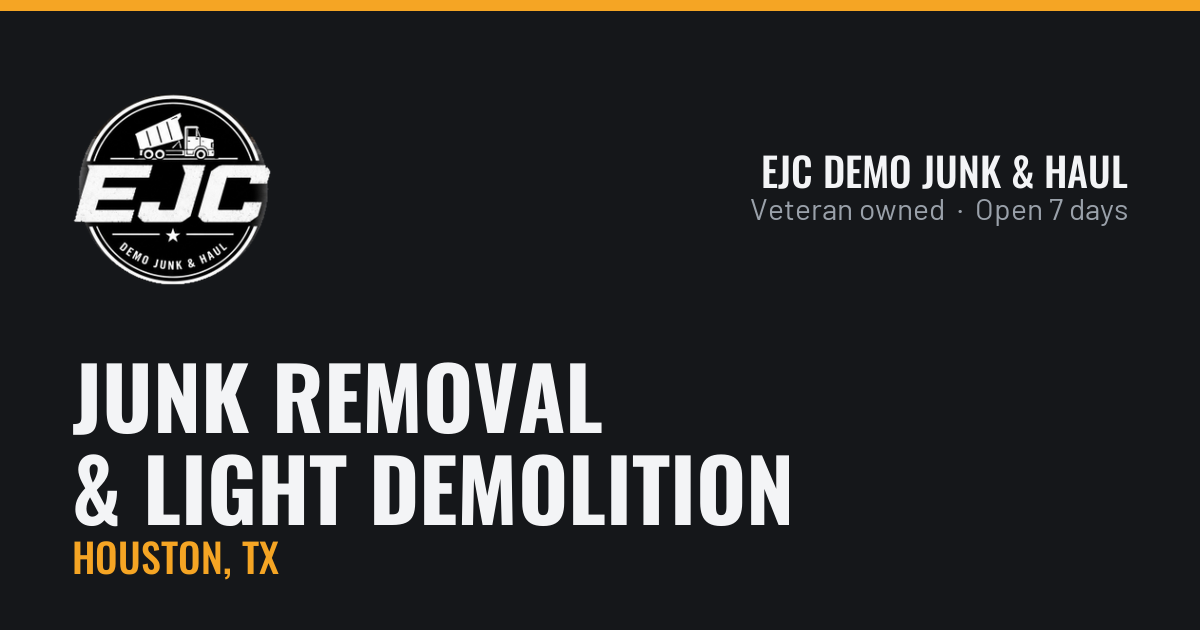
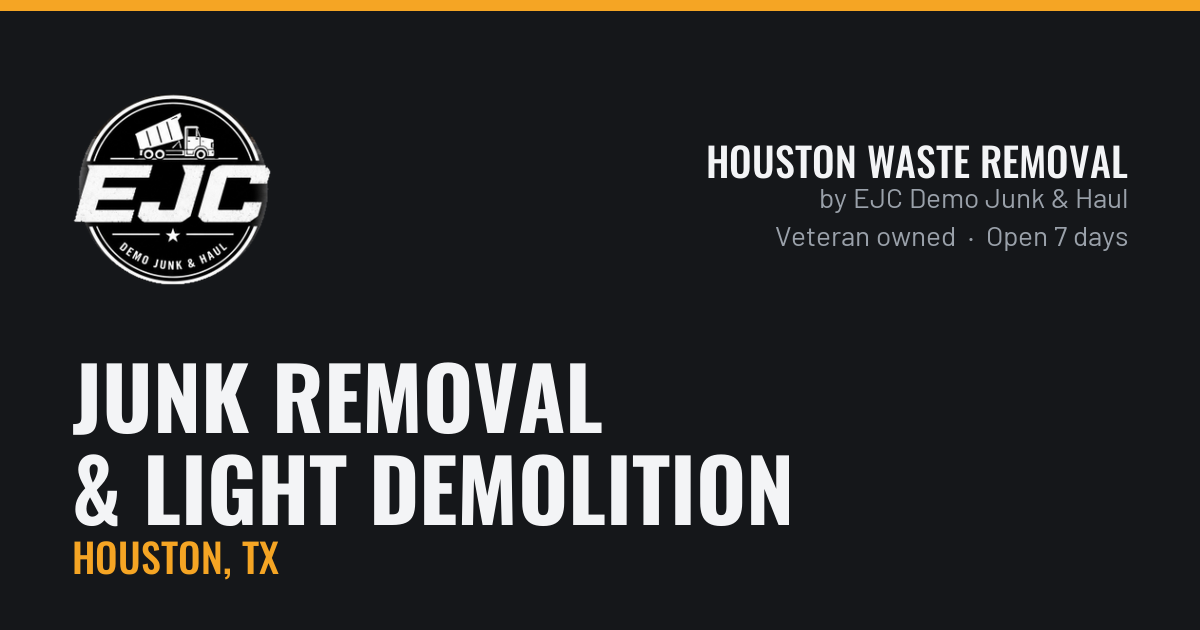
rebrand: Houston Waste Removal, operated by EJC Demo Junk & Haul
The customer-facing brand becomes Houston Waste Removal. EJC Demo Junk & Haul
stays visible as the company behind it, in six deliberate places and nowhere
else, because a half-finished rename reads to a visitor as two businesses.

  displayName    Houston Waste Removal
  alternateName  EJC Demo Junk & Haul   (new field, schema.org alternateName)
  legalName      Mustang Logistix LLC   (unchanged)

HEADER LOCKUP. The EJC badge exactly as supplied, untouched, then the wordmark,
then "by EJC Demo Junk & Haul" beneath it. THE WORDMARK NEVER TRUNCATES at any
width: no min-w-0, no truncate, whitespace-nowrap. What gives on a narrow
screen is the attribution line, hidden under 380px, because the badge already
says EJC and the same statement is in five other places.

TITLES. All now end "| Houston Waste Removal", a 24-character suffix, so heads
must be 26 to 36. Four were refitted, three of them to kill a "Houston ... |
Houston Waste Removal" stutter:

  /          Junk Removal, Cleanouts and Hauling       59
  /services  Junk Removal and Cleanout Services        58
  /about     About Us: Veteran Owned Junk Removal      60
  /contact   Free Estimate for Junk Removal            54

Every service title already fitted and was left alone. H1s and body copy are
untouched in their keywords: still junk removal, cleanouts, hauling and the
service names, never "waste removal".

THE STUTTER. A scan of rendered text for the brand and the bare city within 40
[…]

Changed region(s): [[0.5858, 0.2111, 0.9558, 0.3921]]

diff --git a/components/Header.tsx b/components/Header.tsx
@@ -4,7 +4,9 @@ import { getImage, hasImage } from '@/lib/images'
 import Phone from './Phone'
 
 const NAV = [
+  { href: '/', label: 'Home' },
   { href: '/services', label: 'Services' },
+  { href: '/areas', label: 'Service Areas' },
   { href: '/about', label: 'About' },
   { href: '/referral-program', label: 'Referrals' },
   { href: '/contact', label: 'Contact' },
@@ -13,15 +15,35 @@ const NAV = [
 export default function Header() {
   const logoName = config.images.logo
   // The supplied logo is a 225px screenshot, so it is NEVER rendered above its
-  // native size. 40px tall in the bar is roughly 1/5 of what the file can carry
-  // even at 2x, which is why it stays crisp. A vector file would lift this cap;
-  // see CLIENT-TODO item 15.
+  // native size. 40px tall in the bar is roughly a fifth of what the file can
+  // carry even at 2x, which is why it stays crisp. A vector file would lift
+  // this cap; see CLIENT-TODO item 15.
   const logo = logoName && hasImage(logoName) ? getImage(logoName) : null
 
   return (
-    <header className="sticky top-0 z-40 border-b-2 border-primary-dark bg-surface">
-      <div className="mx-auto flex max-w-page items-center justify-between gap-4 px-4 py-3 sm:px-6">
-        <Link href="/" className="flex shrink-0 items-center gap-3">
+    /*
+     * The scroll behaviour lives in app/globals.css and changes the BORDER and
+     * BACKGROUND only. Nothing here changes height, padding or font size on
+     * scroll, because any of those would reflow the page under the reader and
+     * put CLS above zero. See the `header-scrolled` rules in globals.css.
+     */
+    <header
+      data-site-header
+      className="sticky top-0 z-40 border-b-2 border-primary-dark bg-surface transition-[background-color,border-color] duration-150 motion-reduce:transition-none"
+    >
+      <div className="mx-auto flex max-w-page items-center justify-between gap-3 px-4 py-3 sm:gap-4 sm:px-6">
+        {/*
+          The lockup: the EJC badge exactly as supplied, the brand wordmark, and
+          the operating company underneath.
+
+          THE WORDMARK NEVER TRUNCATES, at any width. `min-w-0` and `truncate`
+          are deliberately absent from it. If something has to give on a narrow
+          screen it is the "by EJC Demo Junk & Haul" line, which is hidden under
+          380px, because the badge already says EJC and the attribution is
+          repeated in the footer, on the about page, in a homepage FAQ and in
+          the schema.
+        */}
+        <Link href="/" className="flex shrink-0 items-center gap-2.5 sm:gap-3">
           {logo && (
             <img
               src={logo.src}
@@ -30,21 +52,28 @@ export default function Header() {
               width={logo.width}
               height={logo.height}
               alt={logo.alt}
-              className="h-10 w-auto"
+              className="h-9 w-auto shrink-0 sm:h-10"
               decoding="async"
             />
           )}
-          <span className="font-heading text-lg font-bold uppercase leading-none tracking-tight text-primary-dark sm:text-xl">
-            {config.displayName}
+          <span className="flex flex-col leading-none">
+            <span className="whitespace-nowrap font-heading text-[15px] font-bold uppercase tracking-tight text-primary-dark min-[380px]:text-lg sm:text-xl">
+              {config.displayName}
+            </span>
+            {config.alternateName && (
+              <span className="mt-1 hidden whitespace-nowrap text-[10px] font-medium uppercase tracking-[0.08em] text-muted min-[380px]:block sm:text-[11px]">
+                by {config.alternateName}
+              </span>
+            )}
           </span>
         </Link>
 
-        <nav aria-label="Main" className="hidden items-center gap-7 md:flex">
+        <nav aria-label="Main" className="hidden items-center gap-6 lg:flex">
           {NAV.map((item) => (
             <Link
               key={item.href}
               href={item.href}
-              className="font-heading text-sm font-semibold uppercase tracking-wide text-ink hover:text-accent-dark"
+              className="whitespace-nowrap font-heading text-sm font-semibold uppercase tracking-wide text-ink transition-colors duration-100 hover:text-accent-dark motion-reduce:transition-none"
             >
               {item.label}
             </Link>
@@ -52,10 +81,10 @@ export default function Header() {
         </nav>
 
         <div className="flex shrink-0 items-center gap-3">
-          <Phone className="hidden font-heading text-base font-bold text-primary-dark lg:inline" />
+          <Phone className="hidden font-heading text-base font-bold text-primary-dark xl:inline" />
           <a
             href={`tel:${config.phone}`}
-            className="hidden bg-accent px-5 py-2.5 font-heading text-sm font-semibold uppercase tracking-wide text-on-accent hover:bg-accent-dark sm:inline-block"
+            className="hidden whitespace-nowrap bg-accent px-4 py-2.5 font-heading text-sm font-semibold uppercase tracking-wide text-on-accent transition-colors duration-100 hover:bg-accent-dark active:translate-y-px motion-reduce:transition-none sm:inline-block sm:px-5"
           >
             Call now
           </a>
@@ -64,13 +93,13 @@ export default function Header() {
 
       <nav
         aria-label="Main mobile"
-        className="flex justify-center gap-6 border-t border-line px-4 py-2.5 md:hidden"
+        className="flex justify-center gap-x-5 gap-y-1 overflow-x-auto border-t border-line px-4 py-2.5 lg:hidden [-ms-overflow-style:none] [scrollbar-width:none] [&::-webkit-scrollbar]:hidden"
       >
         {NAV.map((item) => (
           <Link
             key={item.href}
             href={item.href}
-            className="font-heading text-sm font-semibold uppercase tracking-wide text-ink hover:text-accent-dark"
+            className="shrink-0 whitespace-nowrap font-heading text-sm font-semibold uppercase tracking-wide text-ink transition-colors duration-100 hover:text-accent-dark motion-reduce:transition-none"
           >
             {item.label}
           </Link>

diff --git a/site.config.ts b/site.config.ts
@@ -2,7 +2,8 @@ import type { SiteConfigInput } from './lib/config-schema'
 import { LOGO, STOCK } from './lib/stock-images'
 
 /**
- * Every business fact for EJC Demo Junk & Haul lives here and nowhere else.
+ * Every business fact for Houston Waste Removal, operated by EJC Demo Junk &
+ * Haul, lives here and nowhere else.
  *
  * SOURCED ENTIRELY FROM seo/FACTS.md. If a claim is not in that file it is not
  * in this one: no license number, no insurance status, no years in business,
@@ -25,7 +26,15 @@ const siteConfig = {
   businessSlug: 'houston-waste-removal-1791303748120',
 
   legalName: 'Mustang Logistix LLC',
-  displayName: 'EJC Demo Junk & Haul',
+  /**
+   * The customer-facing brand. EJC Demo Junk & Haul is the operating company
+   * and stays visible: in the header lockup, in the footer, on the about page,
+   * in a homepage FAQ, in llms.txt, and as schema.org alternateName. A visitor
+   * who was recommended one name and lands on the other has to be able to tell
+   * they are the same business, in one glance.
+   */
+  displayName: 'Houston Waste Removal',
+  alternateName: 'EJC Demo Junk & Haul',
   tagline: 'Veteran owned junk removal, cleanouts, and light demolition serving Houston, Texas seven days a week.',
 
   // Service-area business, no storefront. LocalBusiness is the honest type:
@@ -64,7 +73,7 @@ const siteConfig = {
       faqs: [
         {
           q: 'How much does junk removal cost in Houston?',
-          a: 'There is no flat rate, because a few bags and a full garage are not the same job. EJC Demo Junk & Haul gives a free virtual estimate, so you have a price before you commit to anything.',
+          a: 'There is no flat rate, because a few bags and a full garage are not the same job. Houston Waste Removal gives a free virtual estimate, so you have a price before you commit to anything.',
         },
         {
           q: 'Can you come out the same day?',
@@ -148,7 +157,7 @@ const siteConfig = {
         },
         {
           q: 'Can you pick one up the same day I call?',
-          a: 'Same-day service is available, so call and ask what is open. EJC Demo Junk & Haul works seven days a week from 8:00am to 5:00pm, and after-hours calls are answered.',
+          a: 'Same-day service is available, so call and ask what is open. We work seven days a week from 8:00am to 5:00pm, and after-hours calls are answered.',
         },
       ],
     },
@@ -224,7 +233,7 @@ const siteConfig = {
         },
         {
           q: 'How do we keep this private?',
-          a: 'Say what discretion you need and when, and ask how the visit can be arranged around it. EJC Demo Junk & Haul works seven days a week from 8:00am to 5:00pm.',
+          a: 'Say what discretion you need and when, and ask how the visit can be arranged around it. We work seven days a week from 8:00am to 5:00pm.',
         },
         {
           q: 'What if we find things we want to keep partway through?',
@@ -420,7 +429,11 @@ const siteConfig = {
 
   faqs: [
     {
-      q: 'What areas does EJC Demo Junk & Haul serve?',
+      q: 'Is Houston Waste Removal the same company as EJC Demo Junk & Haul?',
+      a: 'Yes. Houston Waste Removal is the name the business trades under, EJC Demo Junk & Haul is the company that operates it, and Mustang Logistix LLC is the registered legal name. One business, one phone number, three names. If you were recommended any of them, you are in the right place.',
+    },
+    {
+      q: 'What areas does Houston Waste Removal serve?',
       a: 'We serve the Houston, Texas area. If you are not sure whether your address is covered, call and ask rather than guessing; it is a short conversation and it saves everyone a wasted trip.',
     },
     {
@@ -429,7 +442,7 @@ const siteConfig = {
     },
     {
       q: 'What is a free virtual estimate?',
-      a: 'It is a quote that costs nothing, whether or not you go ahead. Call EJC Demo Junk & Haul and ask how to set one up.',
+      a: 'It is a quote that costs nothing, whether or not you go ahead. Call and ask how to set one up.',
     },
     {
       q: 'Can you come out today?',
@@ -448,7 +461,7 @@ const siteConfig = {
       a: 'Renters, realtors, property managers, contractors, businesses, municipalities, senior citizens, estate executors, and storage facility operators. The scheduling and the free estimate work the same way for all of them.',
     },
     {
-      q: 'Is EJC Demo Junk & Haul veteran owned?',
+      q: 'Is Houston Waste Removal veteran owned?',
       a: 'Yes. It is a veteran owned business, owned by Earl. The "Demo" in the name is short for demolition, which is why light demolition sits alongside hauling and cleanouts on the service list.',
     },
   ],

diff --git a/app/terms/page.tsx b/app/terms/page.tsx
@@ -39,8 +39,10 @@ export default function TermsPage() {
       <PageHeader title="Terms of Service" crumbs={CRUMBS} />
       <article className="mx-auto max-w-3xl px-4 pb-20 pt-10 text-base leading-relaxed text-ink sm:px-6">
         <p>
-          These terms cover your use of {host}, the website of {config.legalName}, trading as {config.displayName}. By using
-          this site or sending a request through it, you agree to them.
+          These terms cover your use of {host}, the website of {config.displayName}. {config.displayName} is operated by{' '}
+          {config.alternateName ?? config.legalName}
+          {config.alternateName ? <> ({config.legalName})</> : null}, which is the contracting party for any work arranged
+          through this site. By using the site or sending a request through it, you agree to these terms.
         </p>
 
         <h2 className="mt-10 font-heading text-2xl font-bold uppercase tracking-tight text-primary-dark">
@@ -100,7 +102,8 @@ export default function TermsPage() {
           Content on this site
         </h2>
         <p className="mt-4">
-          The {config.displayName} name and logo belong to {config.legalName}. Photographs on this site are stock
+          The {config.displayName} and {config.alternateName ?? config.displayName} names and the logo belong to{' '}
+          {config.legalName}. Photographs on this site are stock
           images used to illustrate the kinds of work described. They do not depict particular jobs carried out by{' '}
           {config.displayName}.
         </p>

diff --git a/components/AboutTeaser.tsx b/components/AboutTeaser.tsx
@@ -16,16 +16,17 @@ import LogoMark from './LogoMark'
  */
 export default function AboutTeaser() {
   return (
-    <section className="border-t-2 border-primary-dark bg-bg">
+    <section data-about-teaser className="border-t-2 border-primary-dark bg-bg">
       <div className="mx-auto grid max-w-page items-center gap-12 px-4 py-16 sm:px-6 md:grid-cols-5 md:py-24">
         <div className="md:col-span-3">
           <p className="font-heading text-sm font-semibold uppercase tracking-[0.2em] text-accent-dark">Veteran owned</p>
           <h2 className="mt-4 font-heading text-3xl font-bold uppercase leading-tight tracking-tight text-primary-dark md:text-5xl">
-            Run by Earl, out of Houston
+            Run by Earl
           </h2>
           <p className="mt-6 max-w-xl text-lg leading-relaxed text-muted">
-            {config.displayName} is a veteran owned business. The &quot;Demo&quot; is short for demolition, which is why
-            sheds, decks and fences come down here as well as getting hauled off.
+            {config.displayName} is a veteran owned business, operated by {config.alternateName}. The &quot;Demo&quot; in
+            that name is short for demolition, which is why sheds, decks and fences are on the service list alongside
+            hauling.
           </p>
           <p className="mt-4 max-w-xl text-lg leading-relaxed text-muted">
             Houston, seven days a week, 8:00am to 5:00pm. Free virtual estimates, and $50 off a first service.

diff --git a/app/llms.txt/route.ts b/app/llms.txt/route.ts
@@ -11,7 +11,22 @@ export function GET() {
     '',
     `> ${c.tagline}`,
     '',
-    `${c.legalName} provides ${c.services.map((s) => s.name.toLowerCase()).join(', ')} in ${c.primaryCity}, ${c.primaryState} and surrounding areas.`,
+    /*
+     * The three names, stated before anything else.
+     *
+     * An answer engine that has seen this business under one name and a page
+     * under another has no way to connect them unless something says so in
+     * plain text. The same statement is on the about page, in a homepage FAQ,
+     * in the footer, and as schema.org alternateName.
+     */
+    ...(c.alternateName
+      ? [
+          '## Company names',
+          `${c.displayName} is the trading name. It is operated by ${c.alternateName}, whose registered legal name is ${c.legalName}. These are one business with one phone number, not three companies.`,
+          '',
+        ]
+      : []),
+    `${c.displayName} provides ${c.services.map((s) => s.name.toLowerCase()).join(', ')} in ${c.primaryCity}, ${c.primaryState} and surrounding areas.`,
     '',
     '## Contact',
     `- Phone: ${c.phoneDisplay}`,

diff --git a/components/Footer.tsx b/components/Footer.tsx
@@ -94,7 +94,18 @@ export default function Footer() {
       </div>
       <div className="border-t border-white/10">
         <div className="mx-auto flex max-w-page flex-wrap items-center justify-between gap-2 px-4 py-4 text-xs opacity-70 sm:px-6">
+          {/*
+            The operating company, stated plainly. "Operated by", never "doing
+            business as": EJC Demo Junk & Haul is the company, Houston Waste
+            Removal is the brand it trades under, and a d/b/a claim would be a
+            statement about a filing nobody here has seen.
+          */}
           <p>
+            {config.alternateName ? (
+              <>
+                {config.displayName} is operated by {config.alternateName} ({config.legalName}).{' '}
+              </>
+            ) : null}
             &copy; {year} {config.legalName}. All rights reserved.
           </p>
           <p className="flex flex-wrap gap-4">

diff --git a/app/privacy-policy/page.tsx b/app/privacy-policy/page.tsx
@@ -61,8 +61,10 @@ export default async function PrivacyPolicyPage() {
 
         <h2 className="mt-10 font-heading text-2xl font-bold text-primary-dark">Who we are</h2>
         <p className="mt-4">
-          This website, {host}, is operated by {config.legalName} (&quot;{config.displayName}&quot;). This policy explains what
-          information the site collects and how it is used.
+          This website, {host}, is the website of {config.displayName}, a brand operated by{' '}
+          {config.alternateName ?? config.legalName}
+          {config.alternateName ? <> ({config.legalName})</> : null}. That company is the legal entity behind this site and
+          is who the information below is shared with. This policy explains what the site collects and how it is used.
         </p>
 
         <h2 className="mt-10 font-heading text-2xl font-bold text-primary-dark">Information you send us</h2>

diff --git a/app/about/page.tsx b/app/about/page.tsx
@@ -19,8 +19,9 @@ export function generateMetadata(): Metadata {
   const fm = readFrontmatter(CONTENT)
   return buildMetadata({
     kind: 'about',
-    // Explicit: the derived about title names the business twice.
-    title: 'About EJC Demo Junk & Haul in Houston',
+    // Explicit: the derived title would name the business twice, and the
+    // brand already carries "Houston", so the head does not repeat it.
+    title: 'About Us: Veteran Owned Junk Removal',
     path: '/about',
     description: fm.description,
     image: fm.image ?? config.images.about,

diff --git a/app/page.tsx b/app/page.tsx
@@ -24,7 +24,9 @@ export function generateMetadata(): Metadata {
     path: '/',
     // Explicit, because the derived home title would be 49 characters and would
     // also collide with the junk removal service page's title.
-    title: 'Houston Junk Removal and Cleanouts',
+    // Avoids the stutter of a head starting "Houston" in front of a brand
+    // that already starts "Houston".
+    title: 'Junk Removal, Cleanouts and Hauling',
     description: fm.description,
     image: fm.image,
   }).metadata

diff --git a/app/contact/page.tsx b/app/contact/page.tsx
@@ -20,7 +20,7 @@ export function generateMetadata(): Metadata {
     kind: 'contact',
     // Explicit: the derived contact title would run to 62 characters and name
     // the business twice.
-    title: 'Free Estimate in Houston, TX',
+    title: 'Free Estimate for Junk Removal',
     path: '/contact',
     description: fm.description,
     image: fm.image,

diff --git a/app/services/page.tsx b/app/services/page.tsx
@@ -18,7 +18,7 @@ export function generateMetadata(): Metadata {
   const fm = readFrontmatter(CONTENT)
   return buildMetadata({
     kind: 'services',
-    title: 'Junk Removal Services in Houston, TX',
+    title: 'Junk Removal and Cleanout Services',
     path: '/services',
     description: fm.description,
     image: fm.image,
